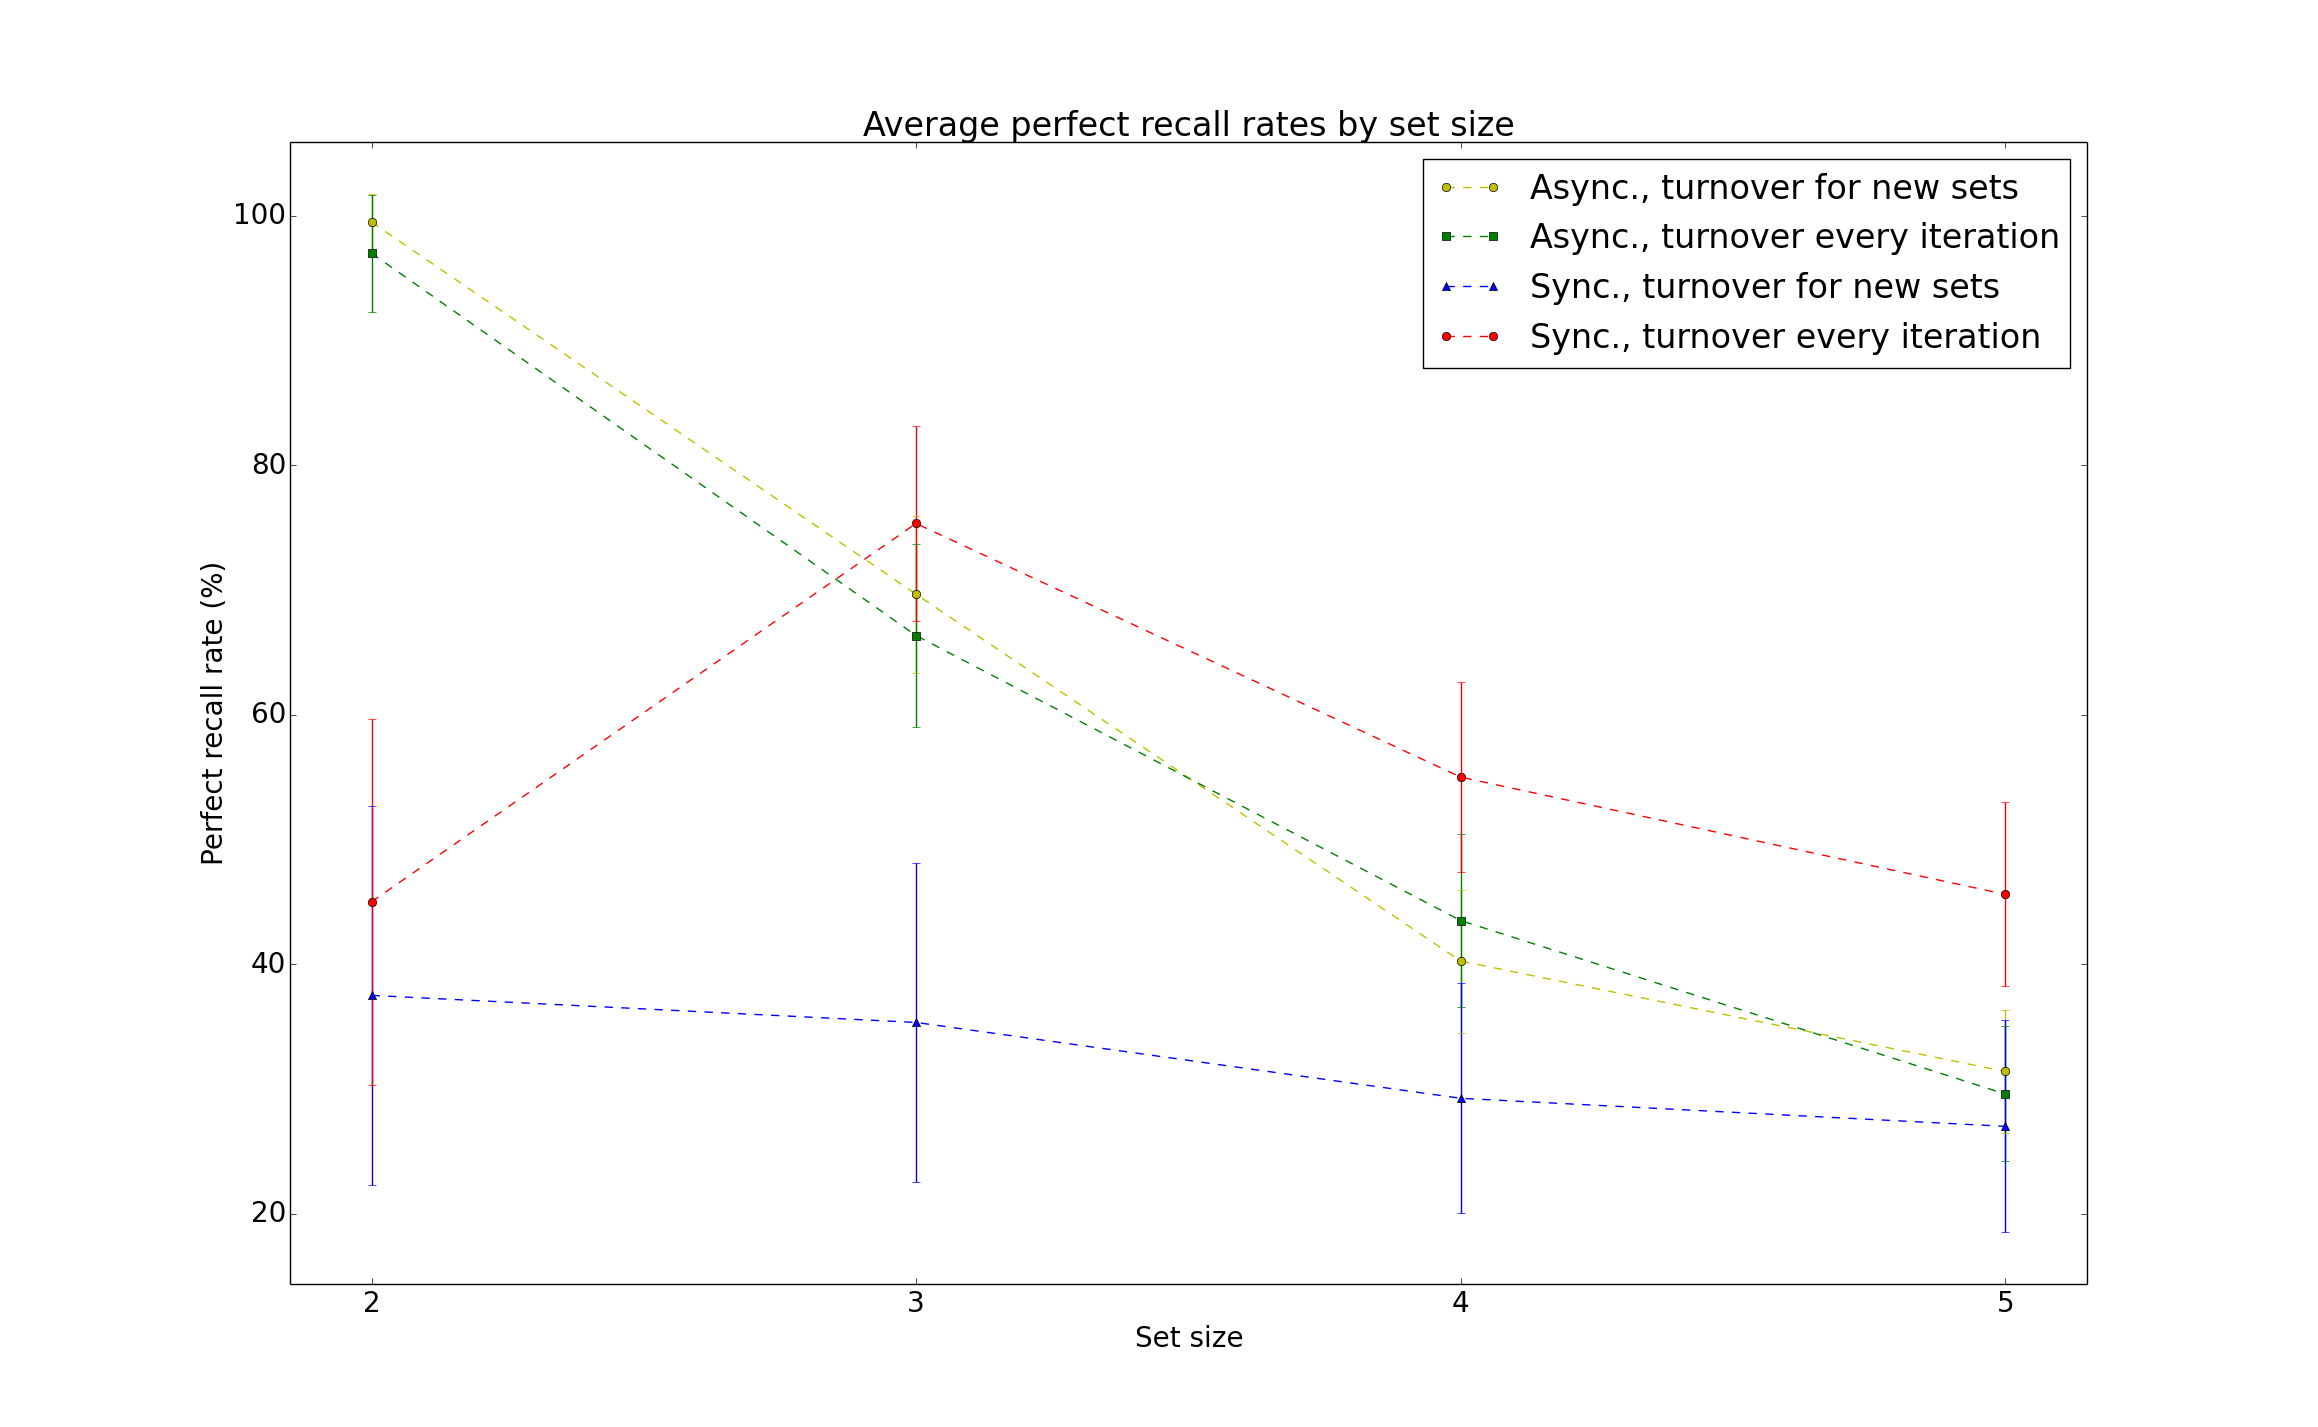
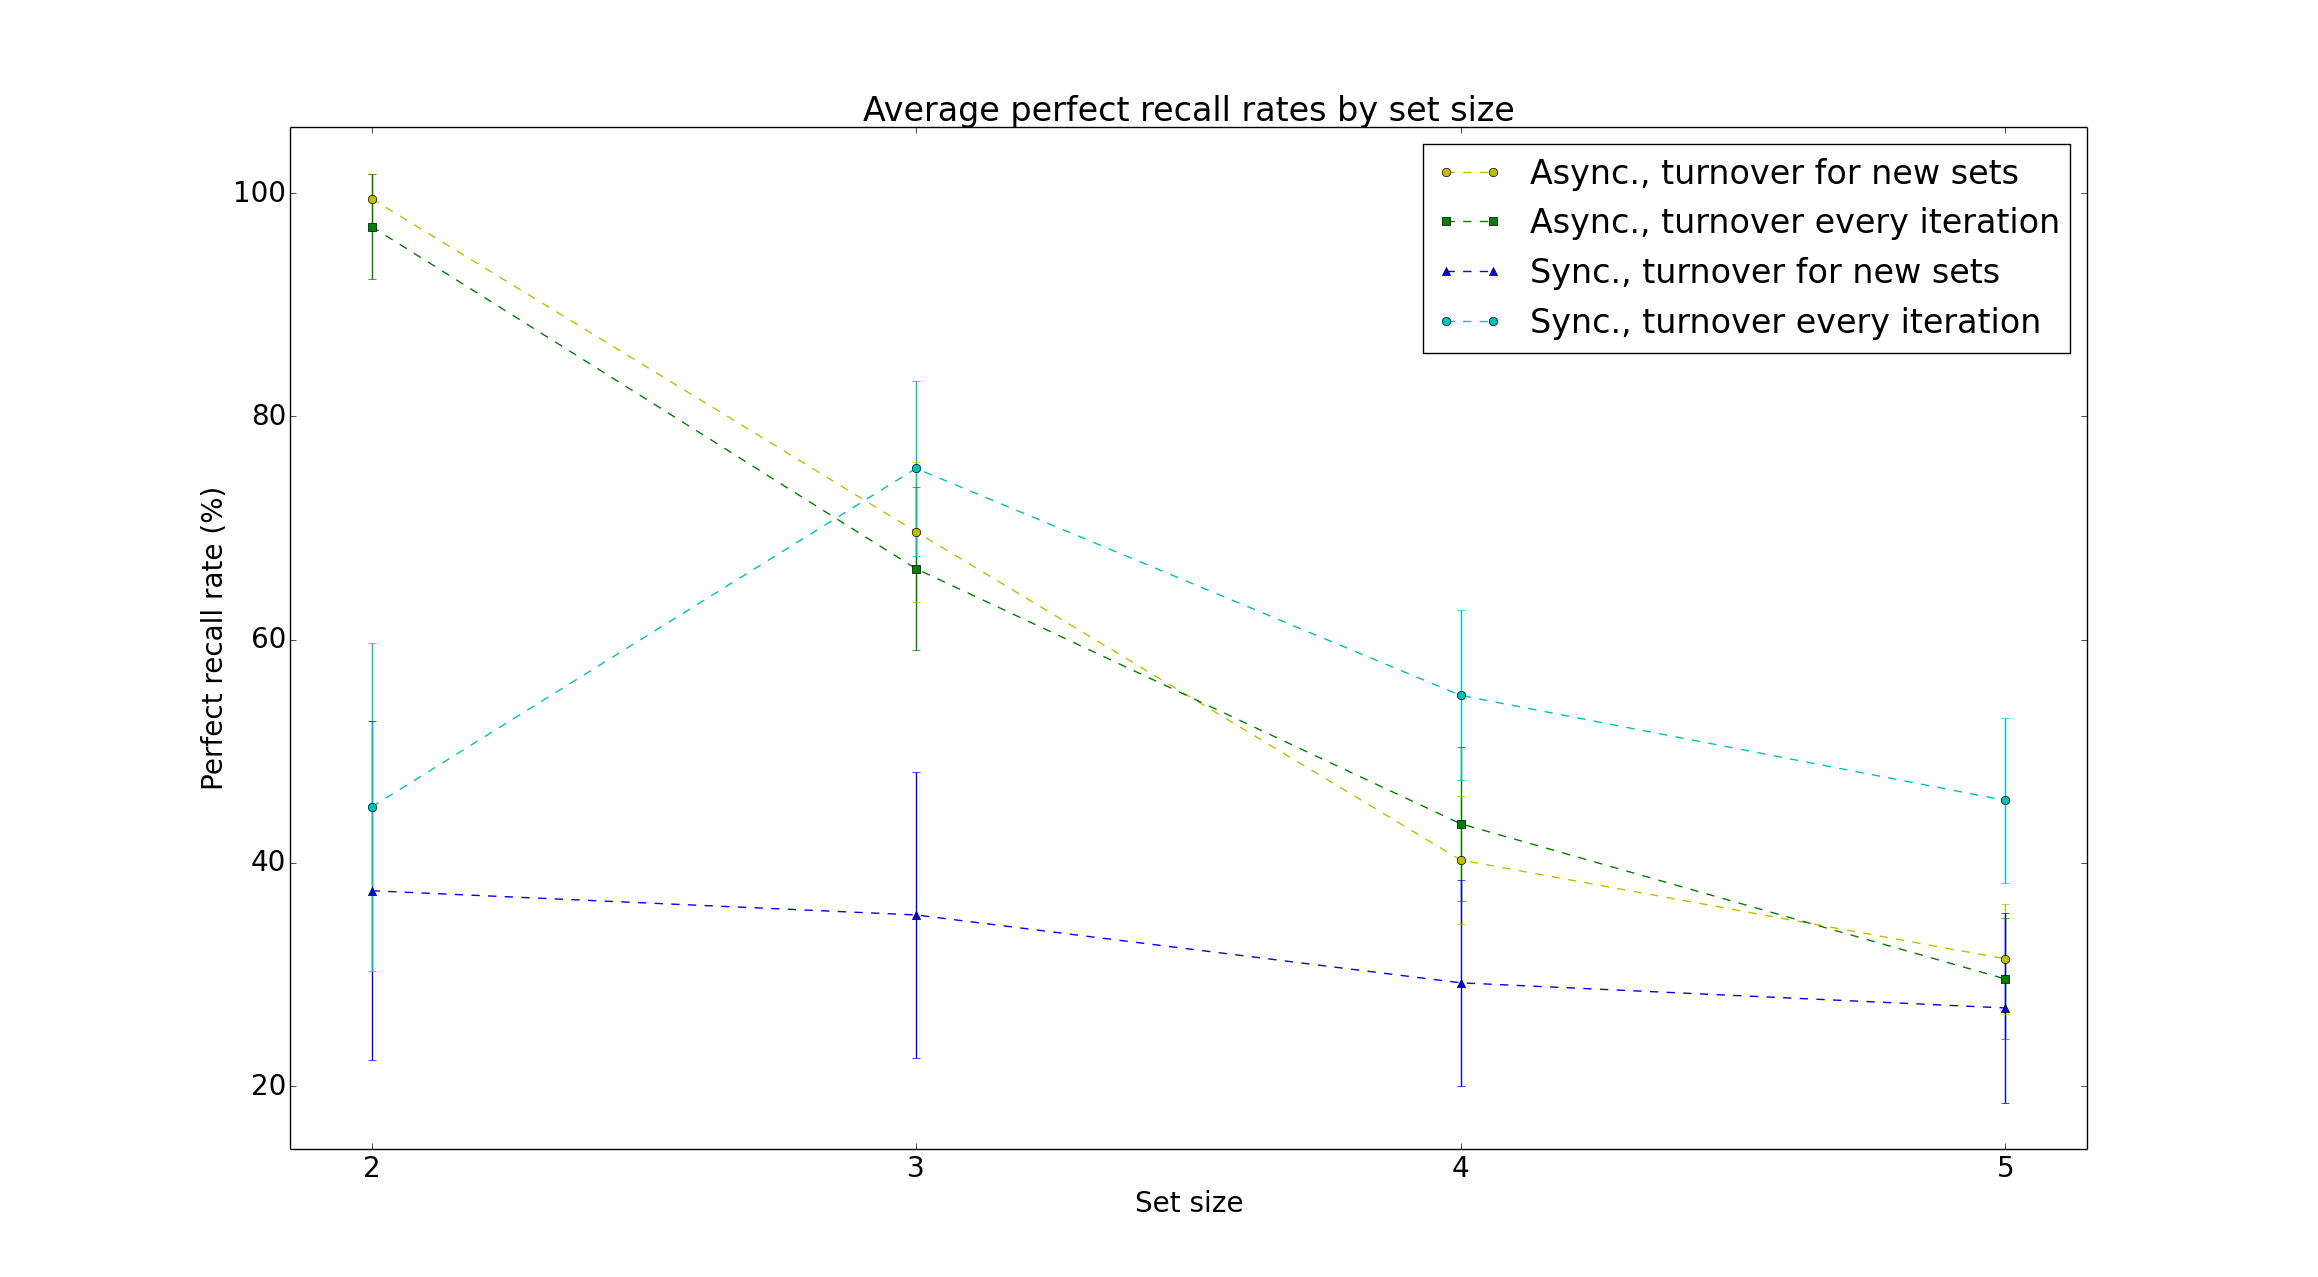
Added lots of notes to chpt. 5.

diff --git a/chapter4.tex b/chapter4.tex
@@ -52,64 +52,82 @@ Value:     & 0.70  & 100.0   & 0.10 & 0.10 & 0.95 & 0.80 & 2.00 \\ \hline
 \section{Experiments}\label{section:experiments}
 
 \subsection{Experiment 1: The updating scheme of CA3 and Neuronal Turnover}
-\subsubsection{Synchronous updating}
 
-\begin{figure}[h!]
-    \centering
-    \includegraphics[width=13cm]{fig/async_false_mode_0.png}
-    \caption{async false mode 0}
-    \label{fig:async_false_mode_0}
-\end{figure}
+\subsection{Experiment 2: Hippocampal model calibration}
+\subsubsection{Methods}
+\subsubsection{Results}
 
-\begin{figure}[h!]
-    \centering
-    \includegraphics[width=13cm]{fig/async_false_mode_1.png}
-    \caption{async false mode 1}
-    \label{fig:async_false_mode_1}
-\end{figure}
+\subsection{Experiment 3: Extracting auto-associative patterns by chaotic recall}
+\subsection{Experiment 4: Extracting hetero-associative patterns by chaotic recall}
 
-\subsubsection{Asynchronous updating}
+\subsection{Experiment 5: Consolidation performance, experiment 3}
+\subsection{Experiment 6: Consolidation performance, experiment 4}
 
-\begin{figure}[h!]
-    \centering
-    \includegraphics[width=13cm]{fig/async_true_mode_0.png}
-    \caption{async true mode 0}
-    \label{fig:async_true_mode_0}
-\end{figure}
+\subsection{Experiment Y: Novel}
 
-\begin{figure}[h!]
-    \centering
-    \includegraphics[width=13cm]{fig/async_true_mode_1.png}
-    \caption{async true mode 1}
-    \label{fig:async_true_mode_1}
-\end{figure}
+
+% ========================== RESULTS ============================
+\section{Results}
+
+\subsection{Experiment 1: The updating scheme of CA3 and Neuronal Turnover}
+% \subsubsection{Synchronous updating}
+
+% \begin{figure}[h!]
+%     \centering
+%     \includegraphics[width=13cm]{fig/async_false_mode_0.png}
+%     \caption{async false mode 0}
+%     \label{fig:async_false_mode_0}
+% \end{figure}
+
+% \begin{figure}[h!]
+%     \centering
+%     \includegraphics[width=13cm]{fig/async_false_mode_1.png}
+%     \caption{async false mode 1}
+%     \label{fig:async_false_mode_1}
+% \end{figure}
+
+% \subsubsection{Asynchronous updating}
+
+% \begin{figure}[h!]
+%     \centering
+%     \includegraphics[width=13cm]{fig/async_true_mode_0.png}
+%     \caption{async true mode 0}
+%     \label{fig:async_true_mode_0}
+% \end{figure}
+
+% \begin{figure}[h!]
+%     \centering
+%     \includegraphics[width=13cm]{fig/async_true_mode_1.png}
+%     \caption{async true mode 1}
+%     \label{fig:async_true_mode_1}
+% \end{figure}
 
 % ========= for all ==========
 \begin{figure}[h!]
     \centering
-    \includegraphics[width=13cm]{fig/avg_convergence_rate.png}
-    \caption{avg convergence by set size}
+    \includegraphics[width=14cm]{fig/avg_convergence_rate.png}
+    \caption{avg convergence by set size, dentate gyrus weighting 25, turnover rate $0.5$.}
     \label{fig:avg_convergence_rate}
 \end{figure}
 
 \begin{figure}[h!]
     \centering
-    \includegraphics[width=13cm]{fig/avg_perfect_recall_rates.png}
-    \caption{perf recall by set size}
+    \includegraphics[width=14cm]{fig/avg_perfect_recall_rates.png}
+    \caption{perf recall by set size, dentate gyrus weighting 25, turnover rate $0.5$.}
     \label{fig:avg_perfect_recall_rates}
 \end{figure}
 
 \begin{figure}[h!]
     \centering
-    \includegraphics[width=13cm]{fig/avg_perfect_recall_bars.png}
-    \caption{perf recall by set size bars}
+    \includegraphics[width=14cm]{fig/average_perfect_recall_rates_by_set_size_bars_reset_for_every_experiment}
+    \caption{perf recall by set size bars, dentate gyrus weighting 25, turnover rate $0.5$.}
     \label{fig:avg_perfect_recall_bars}
 \end{figure}
 
 \begin{figure}[h!]
     \centering
-    \includegraphics[width=13cm]{fig/avg_perfect_recall_rates_with_spurious_bars.png}
-    \caption{perf recall by set size bars with spurious}
+    \includegraphics[width=14cm]{fig/average_perfect_recall_rates_by_set_size_bars_reset_for_every_experiment_with_imperfectly_recalled_patterns.png}
+    \caption{perf recall by set size bars with spurious, dentate gyrus weighting 25, turnover rate $0.5$.}
     \label{fig:avg_perfect_recall_rates_with_spurious_bars}
 \end{figure}
 
@@ -143,16 +161,30 @@ Value:     & 0.70  & 100.0   & 0.10 & 0.10 & 0.95 & 0.80 & 2.00 \\ \hline
 
 \begin{figure}[h!]
     \centering
-    \includegraphics[width=13cm]{fig/avg_convergence_by_turnover_rate_async_dgw_25.png}
+    \includegraphics[width=14cm]{fig/avg_convergence_by_turnover_rate_async_dgw_25.png}
     \caption{avg convergence by turnover rate, async, dgw 25. note that it does not seem to impact this configuration - possibly async altogether. need to analyse changing the turnover rate for dgw 1, and also dgw for turnover rate 0.5 and 0.04}
     \label{fig:avg_convergence_by_turnover_rate_async_dgw_25}
 \end{figure}
 
 \begin{figure}[h!]
     \centering
-    \includegraphics[width=13cm]{fig/avg_perfect_recall_rate_by_turnover_rate_async_dgw_25.png}
+    \includegraphics[width=14cm]{fig/avg_perfect_recall_rate_by_turnover_rate_async_dgw_25.png}
     \caption{avg perfect recall rate by turnover rate. note that it does not seem to impact the p.r.r. - see figure above. possibly async removes the impact this may have, although not successfully separating the given patterns - though increasing perfect recall for smaller set sizes when successful separation occurs.}
     \label{fig:avg_perfect_recall_rate_by_turnover_rate_async_dgw_25}
+\end{figure}
+
+\begin{figure}
+    \centering
+    \includegraphics[width=14cm]{fig/avg_convergence_by_turnover_rate_sync_dgw_25_t_m_1_no_err_bars}
+    \caption{avg convergence by turnover rate. updating scheme ca3: synchronised. dentate gyrus weighting: 25, turnover mode: 1, i.e. turnover for every new set. no err bars}
+    \label{fig:avg_convergence_by_turnover_rate_sync_dgw_25_t_m_1_no_err_bars}
+\end{figure}
+
+\begin{figure}
+    \centering
+    \includegraphics[width=14cm]{fig/average_perfect_recall_rates_by_set_size_sync_dgw_25_t_m_1}
+    \caption{avg perfect recall rate by turnover rate. updating scheme ca3: synchronised. dentate gyrus weighting: 25, turnover mode: 1, i.e. turnover for every new set. no err bars}
+    \label{fig:average_perfect_recall_rates_by_set_size_sync_dgw_25_t_m_1}
 \end{figure}
 
 \subsection{Experiment 2: Hippocampal model calibration}
@@ -167,9 +199,6 @@ Value:     & 0.70  & 100.0   & 0.10 & 0.10 & 0.95 & 0.80 & 2.00 \\ \hline
 
 \subsection{Experiment Y: Novel}
 
-
-% ========================== RESULTS ============================
-\section{Results}
 some patterns may be recalled after the next training set has been learned. i allowed this to put the pattern in the set of chaotically recalled patterns, because it reflects something which is fairly stable in the hippocampal module.
 \\
 
@@ -193,6 +222,14 @@ In order to target the black-box analysis that analyzing an ANN can be - particu
 \\
 
 appears to be a significant correlation between the convergence rate and the perfect recall rate. this probably correlates with most positive emergent attributes that we wish to attain in the HPC network
+
+
+% \begin{figure}
+% \centering
+% \includegraphics{fig/}
+% \caption{Caption}
+% \label{fig:my_label}
+% \end{figure}
 
 
 % ========================== section ============================

diff --git a/chapter5.tex b/chapter5.tex
@@ -115,5 +115,29 @@ Is there a way to exploit the chaotic part of the first model in order to consol
 Due to the fact that performance is near perfect for sequential exposure to all patterns in the complete training set, if all of these may be extracted from the hippocampal module after exposure to the given sub-sets, this may be the mechanism in itself which enables such a significantly improved performance in the DNMM. In a way, it seems that it's all about exposing the FFBP ANN to former patterns, i.e. globalising all episodes into one training set which may be iterated through sequentially. The CA3-CA1-EC pathway may be able to improve iteration for former sets in the hippocampal module, but I am not sure this is the direction that I want to take in the final stages of the thesis. Anyway, in this case, the question is: What is the pseudorehearsal mechanism? How is it implemented?
 
 It would be interesting to see whether the performance improvement in \cite{Hattori2010, Hattori2014} is solely due to the inclusion of bipolar output values, or the separation of training for the "hippocampal" network and the LTM, which is more "fiddled" with in the former model of Ans et al. (right?).
+\\
+
+Slow learning may not enhance learning quality or memory capacity in a single FFBP, as noted by \cite{Ans1997} (cross-check reference). However, when using two reverberating networks, as noted by Vik (2006), it may enhance learning performance.
+\\
+
+the reason for why the sync. mode is sensitive to turnover rate is likely to be that it introduces a certain level of randomness, which is not present when synchronously updating the CA3-values. Because this randomness is already present in the other scheme, it doesn't seem to have an effect on the turnover rate. In fact, no turnover seems to be a valid configuration, (interestingly). The latter may also indicate that the role of the DG weight-config. has too high an impact, this will be confirmed or disconfirmed by the data on DGW 1-30.
+
+\textbf{HPC testing}
+
+interesting result for: Average perfect recall rate by turnover rate, SYNC., DG-weighting = 25, turnover mode 1
+
+biologically speaking, a kind of STM acquires correlations, however, this is a constant stream of IO. Now, we do not dream after having learnt every new thing, but it may be argued that even though a skill is temporarily acquired it is not necessarily consolidated without a certain number of repetitions. More importantly, one has to try for a substantial amount of time when attempting to acquire skills in a fairly novel domain (ref. own experience ? ). Thus, it may be argued that it is more biologically realistic to extract chaotically recalled patterns during learning, and not between sets. However, by re-formulating the criterion for stable IO, I feel that while a certain stability is maintained, and a trend is definitely observable, several spurious patterns are also extracted, which is to be expected as a type of interpolation/prediction mechanism, - so while a stability is maintained, there is a more constant flow of chaotically recalled patterns which is generated and consolidated to the neocortical network - this is arguably more biologically realistic than in the former very artificially separated scenario.
+
+At Pseudorehearsal: more bio. plausible (due to) because only (constant) low number of pseudopatterns required to transfer network config. - it does not increase with the number of learned patterns - because these are interleaved!
+
+
+\textbf{Neocortical consolidation}
+
+Ans et al. (97) seems to be more biologically plausible due to the fact that the two networks have the same weight configuration intially! (i.e. config. in network, thus transfer "in-place")
+
+While pseudopatterns transferring information as described by Ans' and French's in their papers may there describe a biologically somewhat plausible scenario for underlying mechanisms of memory consolidation in neural circuitry, it is not my aim to replicate this specific aspect of the cognitive behaviour (i.e. all consolidation performed in the neural networks, and not in other data structures maintaining pseudopatterns). However, pseudopatterns exemplify also a means of transferring information from one network to another, as noted by \cite{Ans1997} (double-check). Therefore, my model contributes to the field by demonstrating information transfer from an actual more biologically realistic network to another. It is limited in terms of explaining intermediary storage before consolidation to the cortex - however, it may be argued that a significant amount of information processed each day is in fact stored in hippocampal and associated circuitry in the biological brain, which may then be consolidated during sleep, which is hypothesised to trigger a kind of chaotic recall.
+
+Hypothesis: chaotically recalled patterns may transfer information successfully. Somewhat enhanced by also introducing recalled fed back into the HPC-module. This is also likely to exhibit a very simple form of episodic memory through the auto-associative CA3-layer. However, when only using chaotically recalled patterns and \textit{hippocampal pseudopatterns}, there is no interleaving in the neocortical module. Therefore, it is likely that new information will disrupt old. It will be interesting to see to what extent this occurs, using it both as a benchmark, and in suggesting to what extent pseudorehearsal is necessary. Furthermore, because \cite{Ans1997} perform and show that pseudorehearsal may perform interleaving in-place (i.e. in the networks), I will not attempt to replicate that algorithmically, but instead generate pseudopatterns for the former neocortical net. config. before pseudorehearsal and interleaving of the new config. However, I will analyze the neocortical learning of the \textbf{novel pattern-associations} W.R.T. hippocampal chaotically recalled patterns \textit{only}, and also using pseudopatterns. Here it will be interesting to see whether the chaotically recalled patterns are able to capture the funcitonal mapping in itself. Hypothesis: Because the input is random, we require a certain number of inputs for the mapping to be taught successfully to the neocortical module, and thus to be contained within the chaotically recalled pattern set. \textbf{Furthermore, perhaps the algorithmic property of feeding back chaotically recalled outputs into the network, somewhat distorted, is very similar to relaying the outputs back through CA1, which is omitted in this model. If this yields better results, it may be hypothesised that these parts of the HPC may perform essential tasks in terms of pseudopattern generation for memory consolidation, which may then be demonstrated by the designed experiments.}
+
 
 \cleardoublepage
